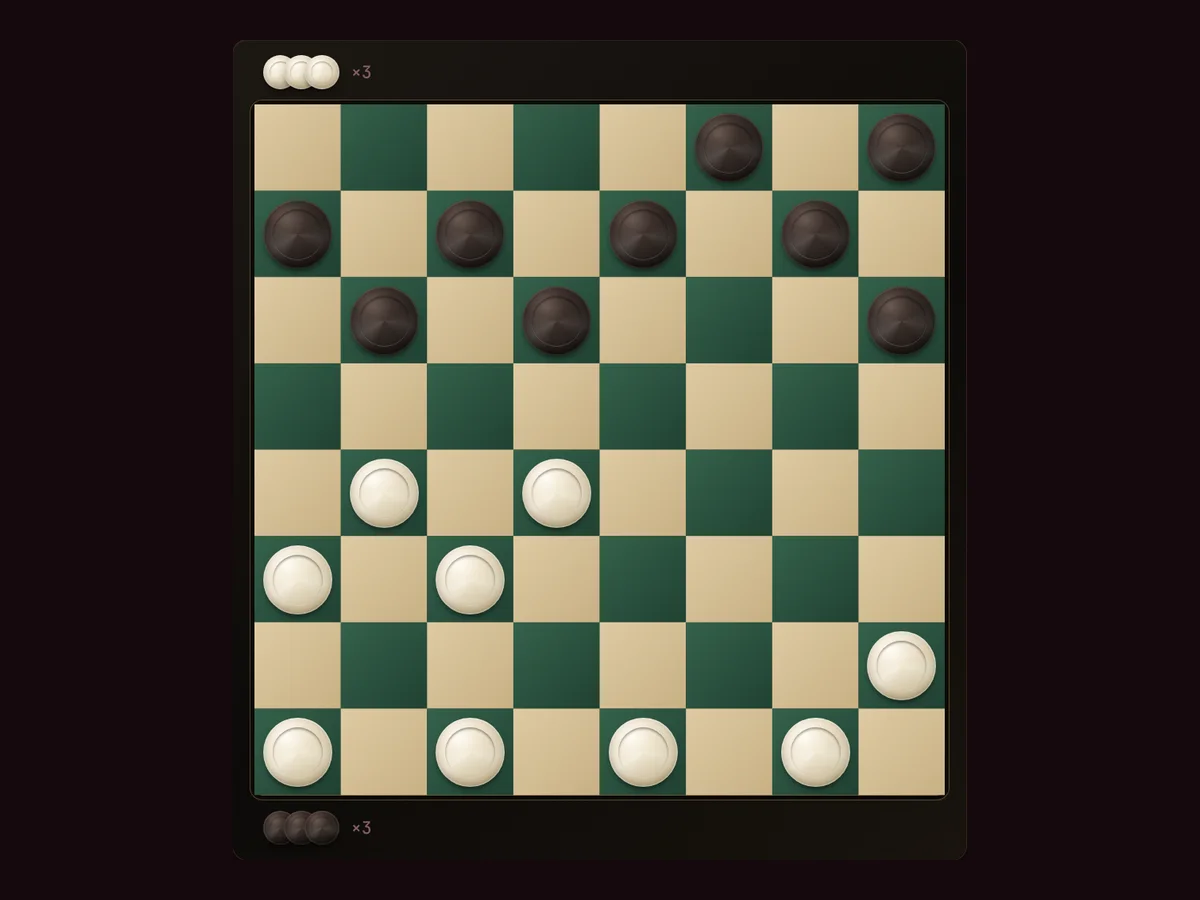
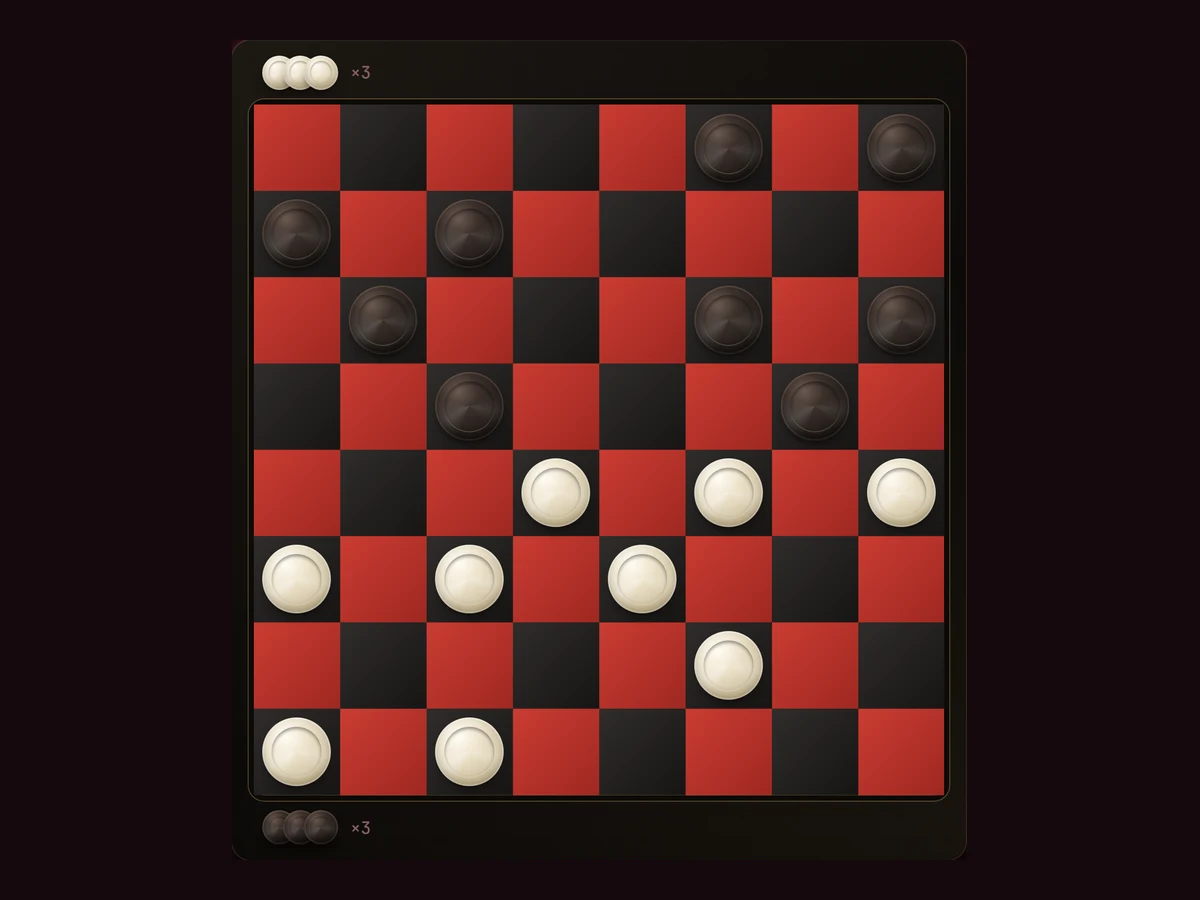
Checkers: default board Tournament (listed first), pieces Ebony & Ivory; top-page thumbnail updated
Claude-Session: https://claude.ai/code/session_01EiWRAYi7BgqHw9bYRYoLyd

diff --git a/index.html b/index.html
@@ -780,7 +780,7 @@ const GAMES = [
   { id:'chess',      href:'./chess/',          thumb:'images/chess.webp',       icon:'images/icons/chess.svg',       cat:'chess',      kind:'BOARD GAME', key:'cs',   isNew:true,  tags:['classic','ai','online','rated','daily','lessons','puzzles','openings','mobile'], facts:{ ai:20, lessons:20, puzzles:445, players:'1–2' } },
   { id:'xiangqi',    href:'./xiangqi/',       thumb:'images/xiangqi.webp',     icon:'images/icons/xiangqi.svg',     cat:'chess',     kind:'BOARD GAME', key:'xq',   isNew:true,  tags:['classic','ai','online','rated','daily','lessons','puzzles','openings','mobile'], facts:{ ai:20, lessons:16, puzzles:543, players:'1–2' } },
   { id:'tafl',       href:'./tafl/',          thumb:'images/tafl.webp',        icon:'images/icons/tafl.svg',        cat:'chess',     kind:'BOARD GAME', key:'tf',   isNew:true,  tags:['classic','ai','online','rated','daily','lessons','puzzles','openings','variants','mobile'], facts:{ ai:20, lessons:16, puzzles:390, players:'1–2' } },
-  { id:'checkers',   href:'./checkers/',       thumb:'images/checkers.webp?v=2',    icon:'images/icons/checkers.svg',    cat:'chess',     kind:'BOARD GAME', key:'ck',   isNew:true,  tags:['classic','ai','online','rated','daily','lessons','puzzles','openings','mobile'], facts:{ ai:20, lessons:13, puzzles:500, players:'1–2' } },
+  { id:'checkers',   href:'./checkers/',       thumb:'images/checkers.webp?v=3',    icon:'images/icons/checkers.svg',    cat:'chess',     kind:'BOARD GAME', key:'ck',   isNew:true,  tags:['classic','ai','online','rated','daily','lessons','puzzles','openings','mobile'], facts:{ ai:20, lessons:13, puzzles:500, players:'1–2' } },
   { id:'sudoku',     href:'./sudoku/',        thumb:'images/sudoku.webp?v=2', icon:'images/icons/sudoku.svg?v=2', cat:'puzzle', kind:'PUZZLE', key:'sd', isNew:true, tags:['daily','puzzles','netrank','mobile'], facts:{ puzzles:1300, players:'1' } },
   { id:'speed-sudoku', href:'./speed-sudoku/', thumb:'images/speed-sudoku.webp', icon:'images/icons/speed-sudoku.svg', cat:'puzzle', kind:'PUZZLE', key:'ss', isNew:true, tags:['original','daily','puzzles','variants','netrank','mobile'], facts:{ puzzles:500, players:'1' } },
   { id:'samegame',   href:'./samegame/',      thumb:'images/samegame.webp?v=4', icon:'images/icons/samegame.svg?v=3', cat:'puzzle', kind:'PUZZLE', key:'sg', isNew:true, tags:['original','daily','puzzles','variants','netrank','mobile'], facts:{ puzzles:750, players:'1' } },

diff --git a/checkers/app.js b/checkers/app.js
@@ -40,7 +40,7 @@ const capCount = m => E.popc(mCap(m));
 
 // ====================================================================== state
 const STORE = 'aicoding-checkers';
-const settings = { mode: 'ai', rule: 'english', color: 1, level: 8, level2: 8, anim: true, sound: true, hint: false, eval: true, last: true, threat: false, num: true, coach: true, lang: '', bd: 'classic', pcs: 'ebony' };
+const settings = { mode: 'ai', rule: 'english', color: 1, level: 8, level2: 8, anim: true, sound: true, hint: false, eval: true, last: true, threat: false, num: true, coach: true, lang: '', bd: 'tournament', pcs: 'ebony' };
 const SUPPORTED = ['ja', 'en', 'zh', 'ko', 'es', 'fr', 'pt', 'de', 'hi', 'ar'];
 function detectLang() { const n = (navigator.language || 'ja').toLowerCase(); return ['ja', 'zh', 'ko', 'es', 'fr', 'pt', 'de', 'hi', 'ar'].find(c => n.startsWith(c)) || 'en'; }
 let LANG = detectLang();
@@ -856,11 +856,11 @@ document.addEventListener('keydown', e => {
 // ---------------------------------------------------------------- small board pictures (rules, lesson / puzzle lists)
 // spec: { b: 32 chars, side } ; o: { cls, marks: {sq: 'ring'|'ng'|'x'|'dash'}, arrows: [[squares...]], flip, click, sel, dest: [], last, nums }
 // ---------------------------------------------------------------- 2D board designs and piece sets (CSS: html[data-bd] / html[data-pcs]; mini boards: BD_PAL / PC_PAL)
-const BD_KEYS = ['classic', 'tournament', 'walnut', 'marble', 'navy'], PC_KEYS = ['ebony', 'red', 'redwhite', 'mono'];
+const BD_KEYS = ['tournament', 'classic', 'walnut', 'marble', 'navy'], PC_KEYS = ['ebony', 'red', 'redwhite', 'mono'];
 const BD_PAL = { classic: ['#2c5440', '#d3be93'], tournament: ['#232120', '#b8322a'], walnut: ['#5c3a20', '#dcc08f'], marble: ['#5d6368', '#e4e1db'], navy: ['#1d3c72', '#c0cbdc'] };
 const PC_PAL = { ebony: [['#3b302b', '#0d0a09'], ['#efe5cf', '#8f8166']], red: [['#3b302b', '#0d0a09'], ['#d9473a', '#5a0f0a']], redwhite: [['#d9473a', '#5a0f0a'], ['#efe5cf', '#8f8166']], mono: [['#262626', '#000'], ['#f6f6f4', '#86867f']] };
 function designApply() {
-  if (!BD_KEYS.includes(settings.bd)) settings.bd = 'classic';
+  if (!BD_KEYS.includes(settings.bd)) settings.bd = 'tournament';
   if (!PC_KEYS.includes(settings.pcs)) settings.pcs = 'ebony';
   document.documentElement.dataset.bd = settings.bd; document.documentElement.dataset.pcs = settings.pcs;
 }

diff --git a/checkers/index.html b/checkers/index.html
@@ -1,7 +1,7 @@
 <!DOCTYPE html>
 <html lang="ja">
 <head>
-<script>try { const S = (JSON.parse(localStorage.getItem('aicoding-checkers') || '{}') || {}).settings || {}; document.documentElement.dataset.bd = S.bd || 'classic'; document.documentElement.dataset.pcs = S.pcs || 'ebony'; } catch (e) {}</script>
+<script>try { const S = (JSON.parse(localStorage.getItem('aicoding-checkers') || '{}') || {}).settings || {}; document.documentElement.dataset.bd = S.bd || 'tournament'; document.documentElement.dataset.pcs = S.pcs || 'ebony'; } catch (e) {}</script>
 <meta charset="UTF-8">
 <script>/* portal skin: show "loading" until the 3D board is ready */ if (/[?&]skin=atlas\b/.test(location.search)) { document.documentElement.classList.add('atlas-skin'); document.write('<style>html.atlas-skin{background:#fff6e2}html.atlas-skin body{opacity:0}html.atlas-skin.atlas-ready body{opacity:1;transition:opacity .2s}.atlas-load{visibility:hidden}</style><link rel="stylesheet" href="../atlas/skin/loading.css?v=2"><script src="../atlas/skin/loading.js?v=4"><\/script><script>AtlasLoading.show()<\/script>'); }</script>
 <meta name="viewport" content="width=device-width, initial-scale=1.0, viewport-fit=cover">
@@ -1252,7 +1252,7 @@ body.hb-on .hb .controls.hb-menu{display:flex!important}
 <script src="../shared/record.js?v=1"></script>
 <script src="coach.js?v=5"></script>
 <script src="coach-i18n.js?v=3"></script>
-<script src="app.js?v=20261030ck1"></script>
+<script src="app.js?v=20261030ck1t"></script>
 <script src="online-ui.js?v=3sec1l9ck1"></script>
 <!-- World Board Game Atlas portal skin: checkers/?skin=atlas — 3D luxury board (lacquer field, black lacquer frame, gold & silver metal checkers), guide speech bubbles, portal look (all features kept) -->
 <script>
